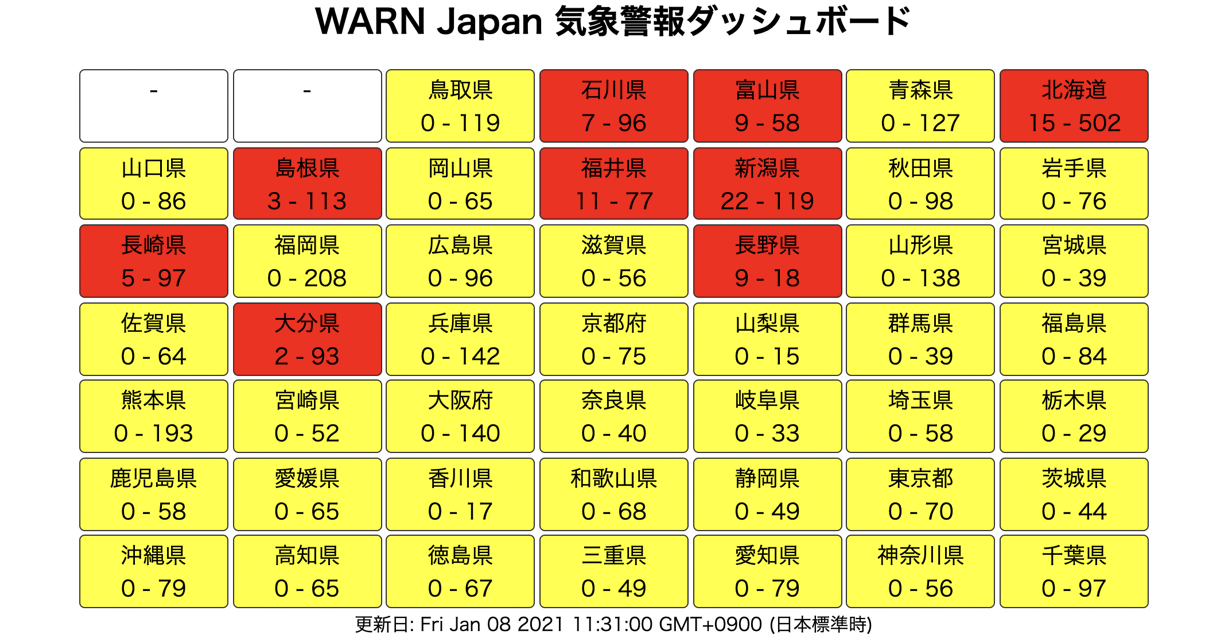
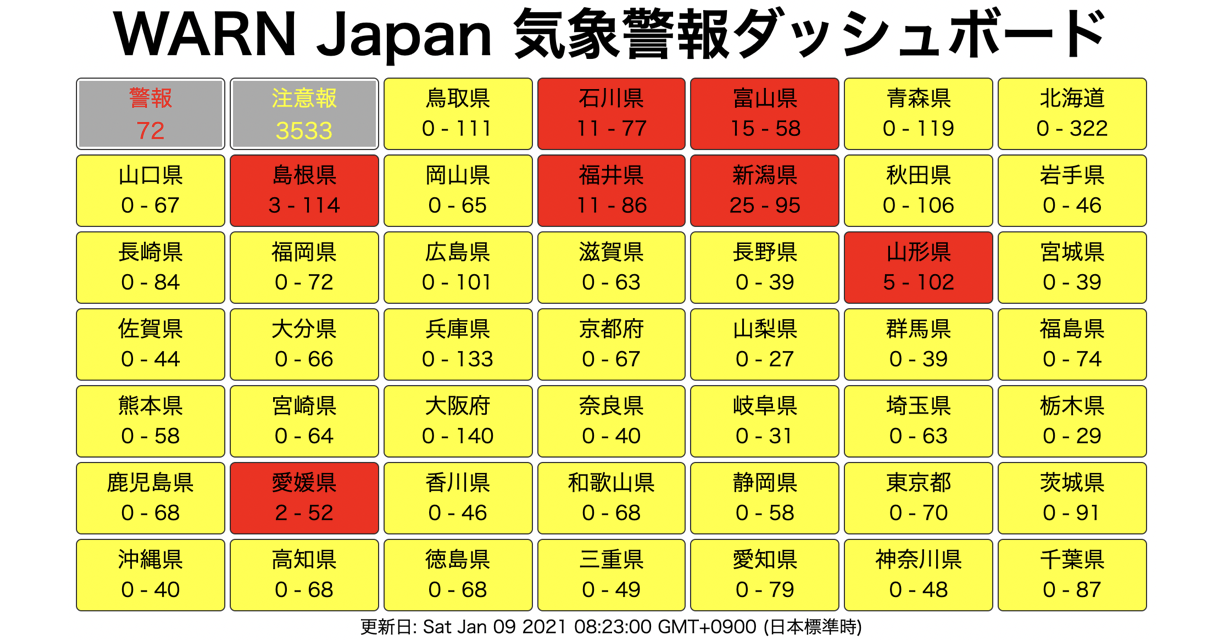
update design

diff --git a/index.html b/index.html
@@ -58,6 +58,10 @@ const makeDataSum = (data) => {
 	return sum;
 };
 window.onload = async () => {
+	setInterval(showPage, 1000 * 60 * 10);
+	showPage();
+};
+const showPage = async () => {
 	const url = "https://code4sabae.github.io/warnjp/data/latest.csv";
 	const src = CSV.toJSON(await CSV.fetch(url));
 	console.log(src);
@@ -67,7 +71,7 @@ window.onload = async () => {
 	console.log(sum);
 
 	lastUpdate.textContent = "更新日: " + new Date(sum.lastUpdate);
-	
+
 	const show = () => {
 		const colorTabularMaps = (pname, tmap) => {
 			for (const c of tmap.children) {
@@ -79,6 +83,8 @@ window.onload = async () => {
 					c.style.color = "black";
 				}
 			}
+			tmap.children[0].innerHTML = `<div style="color:#f00;background-color:#aaa">警報<br>${parseInt(sum.nwarn)}</div>`;
+			tmap.children[1].innerHTML = `<div style="color:#ff0;background-color:#aaa">注意報<br>${parseInt(sum.nnotice)}</div>`
 		};
 		const setCellContent = (c, pname, cname) => {
 			c.textContent = "";
@@ -109,8 +115,8 @@ body {
 	text-align: center;
 }
 h1 {
-	font-size: 3vw;
-	margin-top: 2vw;
+	font-size: 5vw;
+	margin: 1vw 0 .0vw 0;
 }
 /* tabularmaps */
 #tmapc span {
@@ -121,6 +127,9 @@ h1 {
 	border: .1vmax solid #333;
 	padding: .2vmax .2vmax;
 	margin: .2vmax;
+}
+#tmapc .val {
+	font-size: 90%;
 }
 /* other */
 #sel {

diff --git a/run.js b/run.js
@@ -4,17 +4,11 @@ import { downloadPref } from "./downloadPref.js";
 import { parsePrefAll } from "./parsePref.js";
 import { getDateByTenMinutes } from "./getDate.js";
 
-const update = async () => {
-    const nowdt = getDateByTenMinutes();
-        try {
-            await Deno.mkdir("temp/csv", { recursive: true });
-            await downloadIndex();
-            await parseIndex();
-            await downloadPref();
-            await parsePrefAll(nowdt);
-            console.log("updated!", nowdt);
-        } catch (e) {
-            console.log(e);
-        }
-};
-await update();
+await Deno.mkdir("temp/csv", { recursive: true });
+
+const nowdt = getDateByTenMinutes();
+
+await downloadIndex();
+await parseIndex();
+await downloadPref();
+await parsePrefAll(nowdt);
